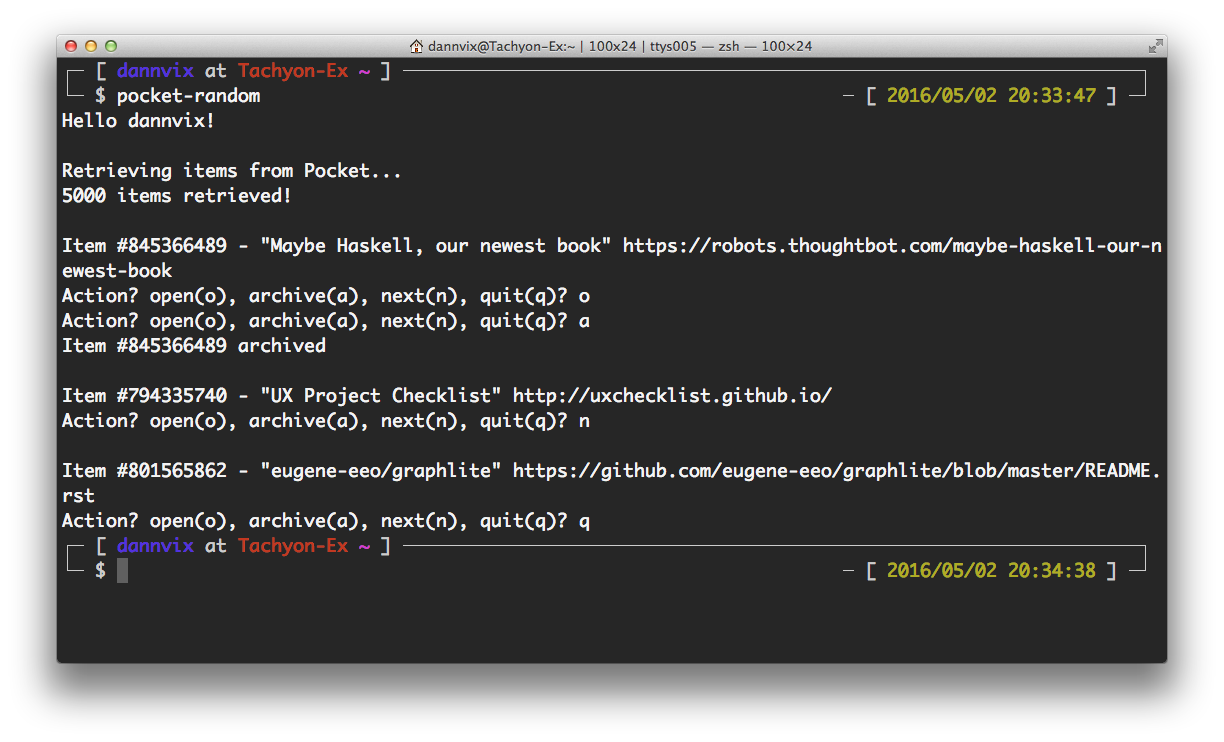
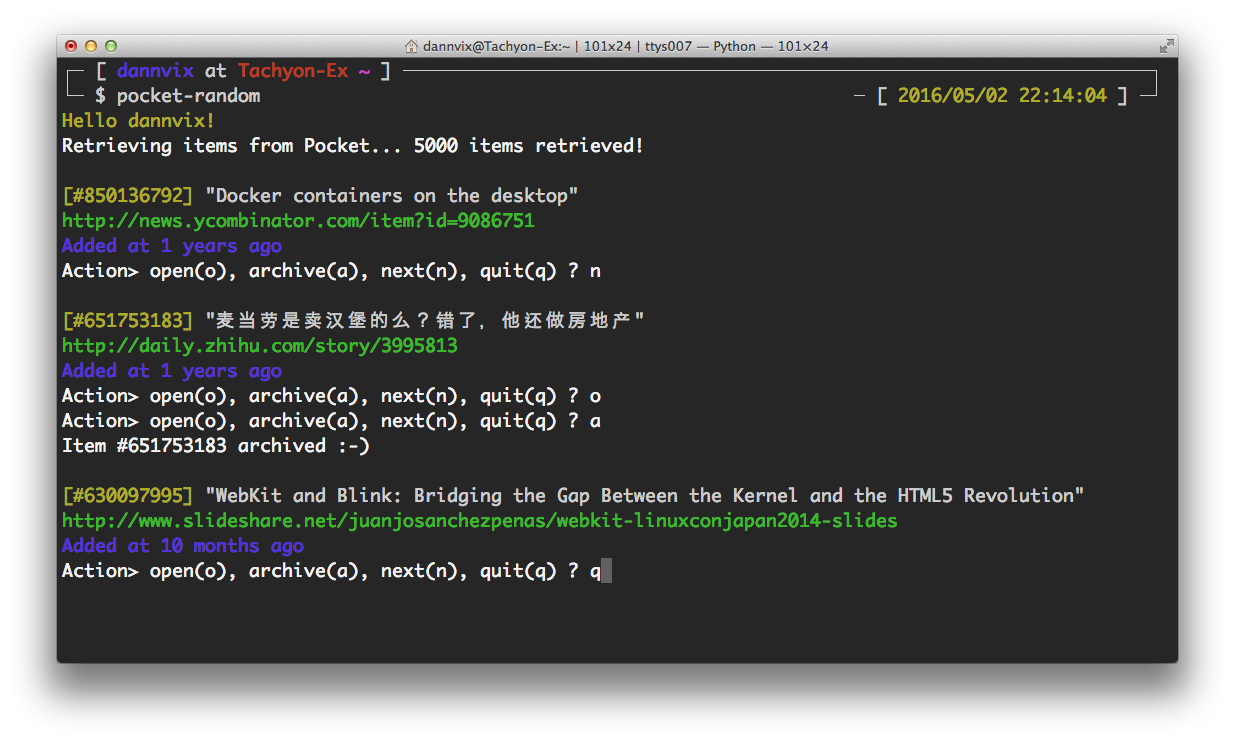
add: pretty and colorful output

Changed region(s): [[0.031, 0.031, 0.9624, 0.8059], [0.683, 0.093, 0.9003, 0.155], [0.7141, 0.7439, 0.9003, 0.7749]]

diff --git a/pocket-random.py b/pocket-random.py
@@ -1,4 +1,5 @@
 #!/usr/bin/env python
+# encoding: utf-8
 # pocket-random.py -- randomly pick up some items from Pocket
 
 # Copyright (c) 2016 Shao-Chung Chen
@@ -27,8 +28,67 @@ import random
 import sys
 import time
 import webbrowser
+from datetime import datetime
 
 import requests
+
+# blessings
+try:
+    from blessings import Terminal
+except ImportError:
+    # fallback
+    class Terminal(object):
+        def __getattr__(self, name):
+            if name == 'width': return 100
+            elif name == 'height': return 24
+            def _missing(*args, **kwargs):
+                return ''.join(args) or None
+            return _missing
+
+
+# human-friendly date
+# ref. http://stackoverflow.com/a/1551394
+def pretty_date(timestamp=None):
+    now = datetime.now()
+    if type(timestamp) is int:
+        diff = now - datetime.fromtimestamp(timestamp)
+    elif isinstance(timestamp, datetime):
+        diff = now - timestamp
+    elif not None:
+        diff = now - now
+
+    day_diff = diff.days
+    if day_diff < 0:
+        return 'from the future!'
+    elif day_diff == 0:
+        second_diff = diff.seconds
+        if second_diff < 60:
+            return 'few seconds ago'
+        if second_diff < 120:
+            return 'a minute ago'
+        if second_diff < 3600:
+            return str(second_diff / 60) + ' minutes ago'
+        if second_diff < 7200:
+            return 'an hour ago'
+        if second_diff < 86400:
+            return str(second_diff / 3600) + ' hours ago'
+    elif day_diff == 1:
+        return "yesterday"
+    elif day_diff < 7:
+        return str(day_diff) + ' days ago'
+    elif day_diff < 31:
+        return str(day_diff / 7) + ' weeks ago'
+    elif day_diff < 365:
+        return str(day_diff / 30) + ' months ago'
+    return str(day_diff / 365) + ' years ago'
+
+
+# truncate string
+def truncate(string, width):
+    if len(string) > width:
+      return u'{truncated}…'.format(truncated=string[:width-1])
+    return string
+
 
 # API configurations
 API_BASE = 'https://getpocket.com/v3/'
@@ -65,6 +125,9 @@ class UserConfig(object):
 
 
 if __name__ == '__main__':
+    # colored terminal output
+    t = Terminal()
+
     # config
     cfg = UserConfig()
 
@@ -119,9 +182,8 @@ if __name__ == '__main__':
         cfg.save()
 
     if cfg.api_key and cfg.user_code and cfg.user_token:
-        print('Hello {username}!'.format(username=cfg.username))
-        print('')
-        print('Retrieving items from Pocket...')
+        print(t.yellow('Hello {username}!'.format(username=cfg.username)))
+        sys.stdout.write('Retrieving items from Pocket... '); sys.stdout.flush()
         # FIXME: retrieve items in small batches (API limitation = 5000 items for each requests)
         # FIXME: save the retrieved data if possible
         request_url = '{api_base}get'.format(api_base=API_BASE)
@@ -134,17 +196,26 @@ if __name__ == '__main__':
         item_count = len(items)
         print('{item_count} items retrieved!'.format(item_count=item_count))
 
-        while True:
-            picked_item = random.choice(items)
+        random.shuffle(items)
+        while items:
+            picked_item = items.pop(0)
             item_id = picked_item.get('item_id')
-            item_title = picked_item.get('resolved_title').encode('utf8')
-            item_url = picked_item.get('resolved_url').encode('utf8')
-            print('')
-            print('Item #{item_id} - "{item_title}" {item_url}'.format(
-                item_id=item_id, item_title=item_title, item_url=item_url))
+            item_title = picked_item.get('resolved_title')
+            item_url = picked_item.get('resolved_url')
+            item_timestamp = int(picked_item.get('time_added', 0))
+
+            id_field = t.yellow(u'[#{id}]'.format(id=item_id))
+            title_field = t.white(u'"{title}"'.format(title=item_title))
+            url_field = t.green(u'{url}'.format(url=truncate(item_url, t.width)))
+            date_field = t.blue(u'Added at {date}'.format(date=pretty_date(item_timestamp)))
+
+            print(u'')
+            print(u'{id} {title}'.format(id=id_field, title=title_field))
+            print(u'{url}'.format(url=url_field))
+            print(u'{date}'.format(date=date_field))
 
             while True:
-                answer = raw_input('Action? open(o), archive(a), next(n), quit(q)? ').lower()
+                answer = raw_input('Action> open(o), archive(a), next(n), quit(q) ? ').lower()
                 if answer in ['o', 'open']:
                     webbrowser.open(item_url)
                 elif answer in ['n', 'next']:
@@ -158,12 +229,11 @@ if __name__ == '__main__':
                         'access_token': cfg.user_token,
                         'actions': json.dumps([{
                             'action': 'archive',
-                            'item_id': item_id,
-                            'time': int(time.time())}])}
+                            'item_id': item_id}])}
                     response = requests.get(request_url, params=request_data)
                     if response.status_code != requests.codes.ok:
                         raise Exception('archive item error, status_code=[{status_code}], X-Error-Code=[{xerror}]'.format(
                             status_code=response.status_code, xerror=response.headers.get('X-Error-Code')))
                     else:
-                        print('Item #{item_id} archived'.format(item_id=item_id))
+                        print('Item #{item_id} archived :-)'.format(item_id=item_id))
                     break
